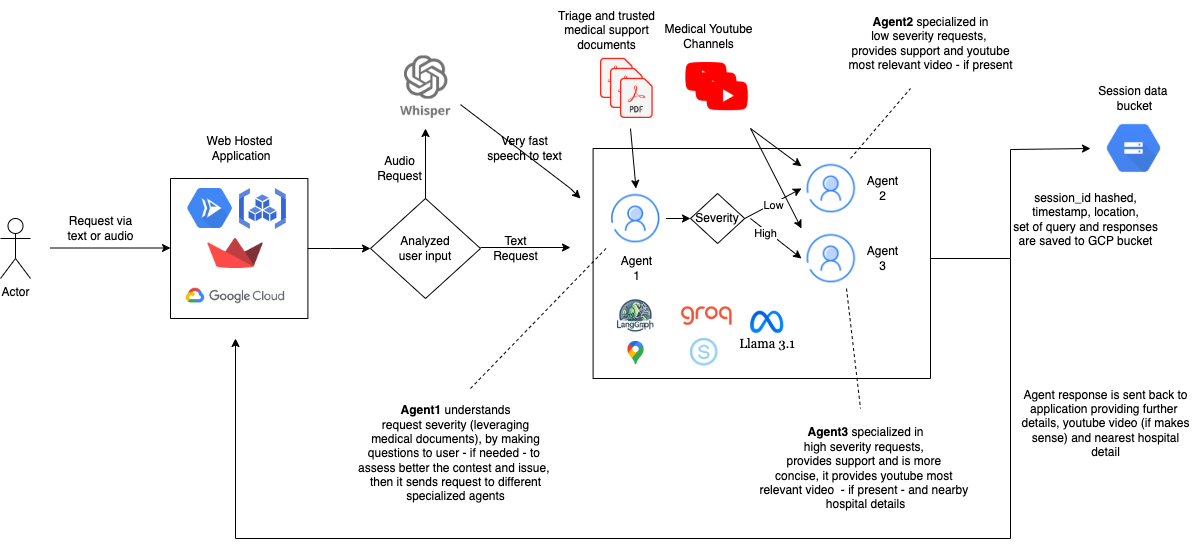
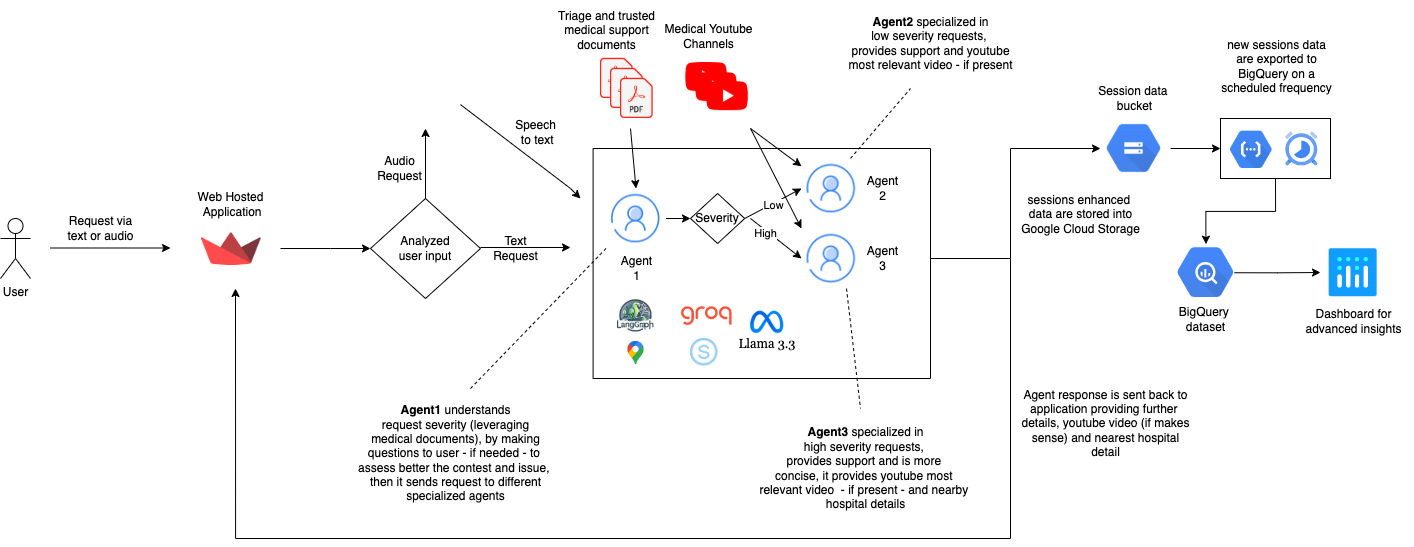
Updated docs

diff --git a/README.md b/README.md
@@ -45,6 +45,7 @@ The acronym **LLAMA** in our app stands for a **Live Assistant for Medical Assis
 - **Location-Based Assistance**: The app utilizes the user’s geographical location to suggest nearby hospitals or emergency services, making it easier for the user to act quickly. Depending on the severity of the situation, LLAMA will suggest whether it’s better to contact emergency services or go to the hospital directly. This ensures the user can make an informed decision, optimizing the response time and care.
 - **Video Embedding in Web App**: All tutorial videos are directly embedded within the app, ensuring smooth access and no need for external platforms. This guarantees that users can access life-saving video demonstrations instantly without distractions or delays.
 - **Saving All Interactions in History**: For each session, **LLAMA First Aid** automatically saves the following data in a **GCP bucket**. The data is anonimized and is used solely for the purposes of generating dashboards, evaluating the performance of the LLM, and supporting other features. It ensures that all interactions are tracked and can be reviewed later, helping improve accuracy and offering insight into previous guidance. The data is used exclusively for system improvement, performance monitoring, and tracking over time.
+- **Advanced Insights Dashboard**: We have developed a comprehensive **dashboard** that provides advanced insights into the collected data. This dashboard includes real-time information on system performance, such as the most frequent medical emergencies, the locations where incidents are occurring most often, and trends over time. By analyzing this data, we can continuously improve the app’s response effectiveness and identify areas where additional resources may be needed.
 
 ---
 
@@ -57,11 +58,11 @@ The user accesses the LLAMA First Aid web application and provides key informati
 ### **2. AI-Driven Assistance**
 Using **Meta’s LLaMA** technology, the app processes the user’s responses and interprets the medical context. LLAMA then provides the most appropriate life-saving advice, guiding the user through the necessary actions.
 
-### **3. Agent-Based Response**
-LLAMA utilizes a system of **custom agents** to process the information provided by the user. Each agent is designed to handle a specific category of emergency (e.g., CPR, choking, wound care) and ensures the advice given is precise and relevant. These agents collaborate to provide the most appropriate guidance based on the emergency’s nature and severity.
+### **3. Triage Agent-Based Response**
+LLAMA uses a **triage agent** to first assess the severity of the emergency. This triage agent evaluates the situation based on the user’s input and determines how critical the situation is. Once the severity is assessed, the triage agent routes the request to the appropriate specialized agent. These specialized agents are tailored for different types of emergencies (e.g., CPR, choking, wound care) and ensure the advice given is precise and relevant. 
 
-- If the situation is severe (e.g., cardiac arrest), LLAMA activates emergency agents that will prioritize life-saving steps.
-- For less critical cases, agents provide guidance that allows the user to handle the situation calmly and effectively.
+- If the situation is severe (e.g., cardiac arrest), the triage agent will route the request to emergency agents that prioritize life-saving steps.
+- For less critical cases, the triage agent routes the request to agents that provide guidance for handling the situation in a calm and effective manner.
 
 ### **4. Search for the Best Answer**
 LLAMA pulls information not only from its internal database but also from external sources such as trusted websites and **YouTube**. This helps to ensure that the guidance provided is always up to date and accurate. By searching multiple sources, LLAMA cross-references information to deliver the best possible advice.
@@ -77,6 +78,9 @@ As users progress through the app, LLAMA continues to adapt its instructions bas
 
 ### **8. Hospital Suggestion**
 Based on the user's **location**, LLAMA evaluates the severity of the situation and suggests the nearest hospital or emergency service. If the emergency is critical, LLAMA will recommend calling an ambulance or contacting the nearest medical facility directly. In less severe cases, it may suggest the user proceed to the hospital on their own or continue with the first aid steps.
+
+### **9. Session Data and Insights**
+After each session, **LLAMA First Aid** saves interaction data, including the user's queries, responses, medical information, and location, in an anonymized form. This anonymized data is then used to generate valuable **insights** through advanced dashboards. The data helps track trends in emergency situations, monitor the system’s performance, and identify the most common medical emergencies and dangerous areas. This allows us to continually improve the application’s accuracy, responsiveness, and overall effectiveness in delivering life-saving guidance.
 
 ---
 
@@ -111,10 +115,10 @@ Based on the user's **location**, LLAMA evaluates the severity of the situation 
 
 - **Evaluation of Response Accuracy**: LLAMA will introduce a feature to **evaluate the correctness of the responses**. Users will be able to rate the quality and usefulness of the advice provided, which will allow LLAMA to continuously improve its accuracy through user feedback.
 
-- **Data Analytics & Alerts**: Future releases will introduce the capability to **analyze historical interaction data**, generating valuable insights through statistics and trend analysis. Additionally, the system will have the potential for **automatic alerts** to external parties (such as medical professionals or emergency contacts) when critical issues are identified, further enhancing the effectiveness of LLAMA First Aid in real-time emergencies.
+- **Alerting**: Future updates will enable the system to send **automatic alerts** to external parties, such as medical professionals or emergency contacts, when critical issues are detected. This will significantly enhance LLAMA First Aid's effectiveness during real-time emergencies.
 
 ---
 
 ## Why LLAMA First Aid?
 - **Immediate Response**: In critical emergencies, LLAMA First Aid provides **instant assistance**, offering users immediate, life-saving guidance.
-- **Comprehensive Coverage**: From basic injuries to life
+- **Comprehensive Coverage**: From basic injuries to lifes
